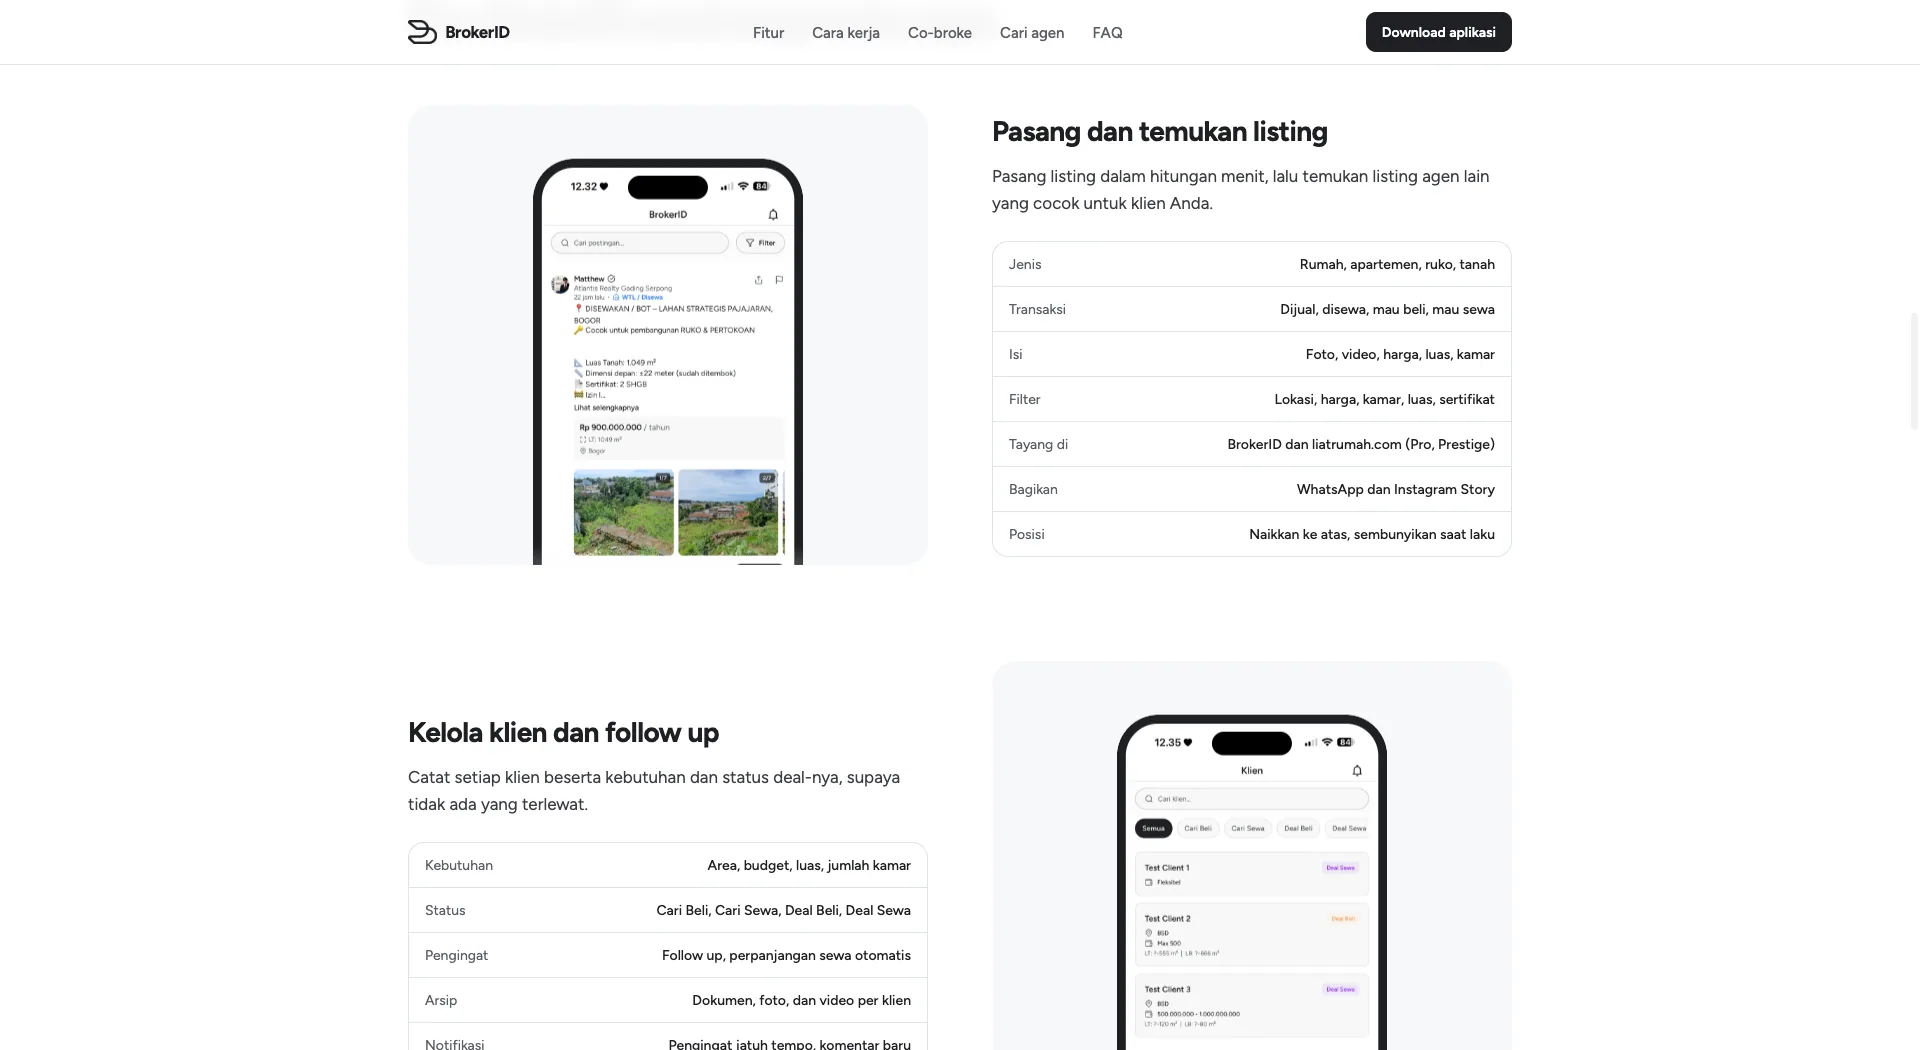
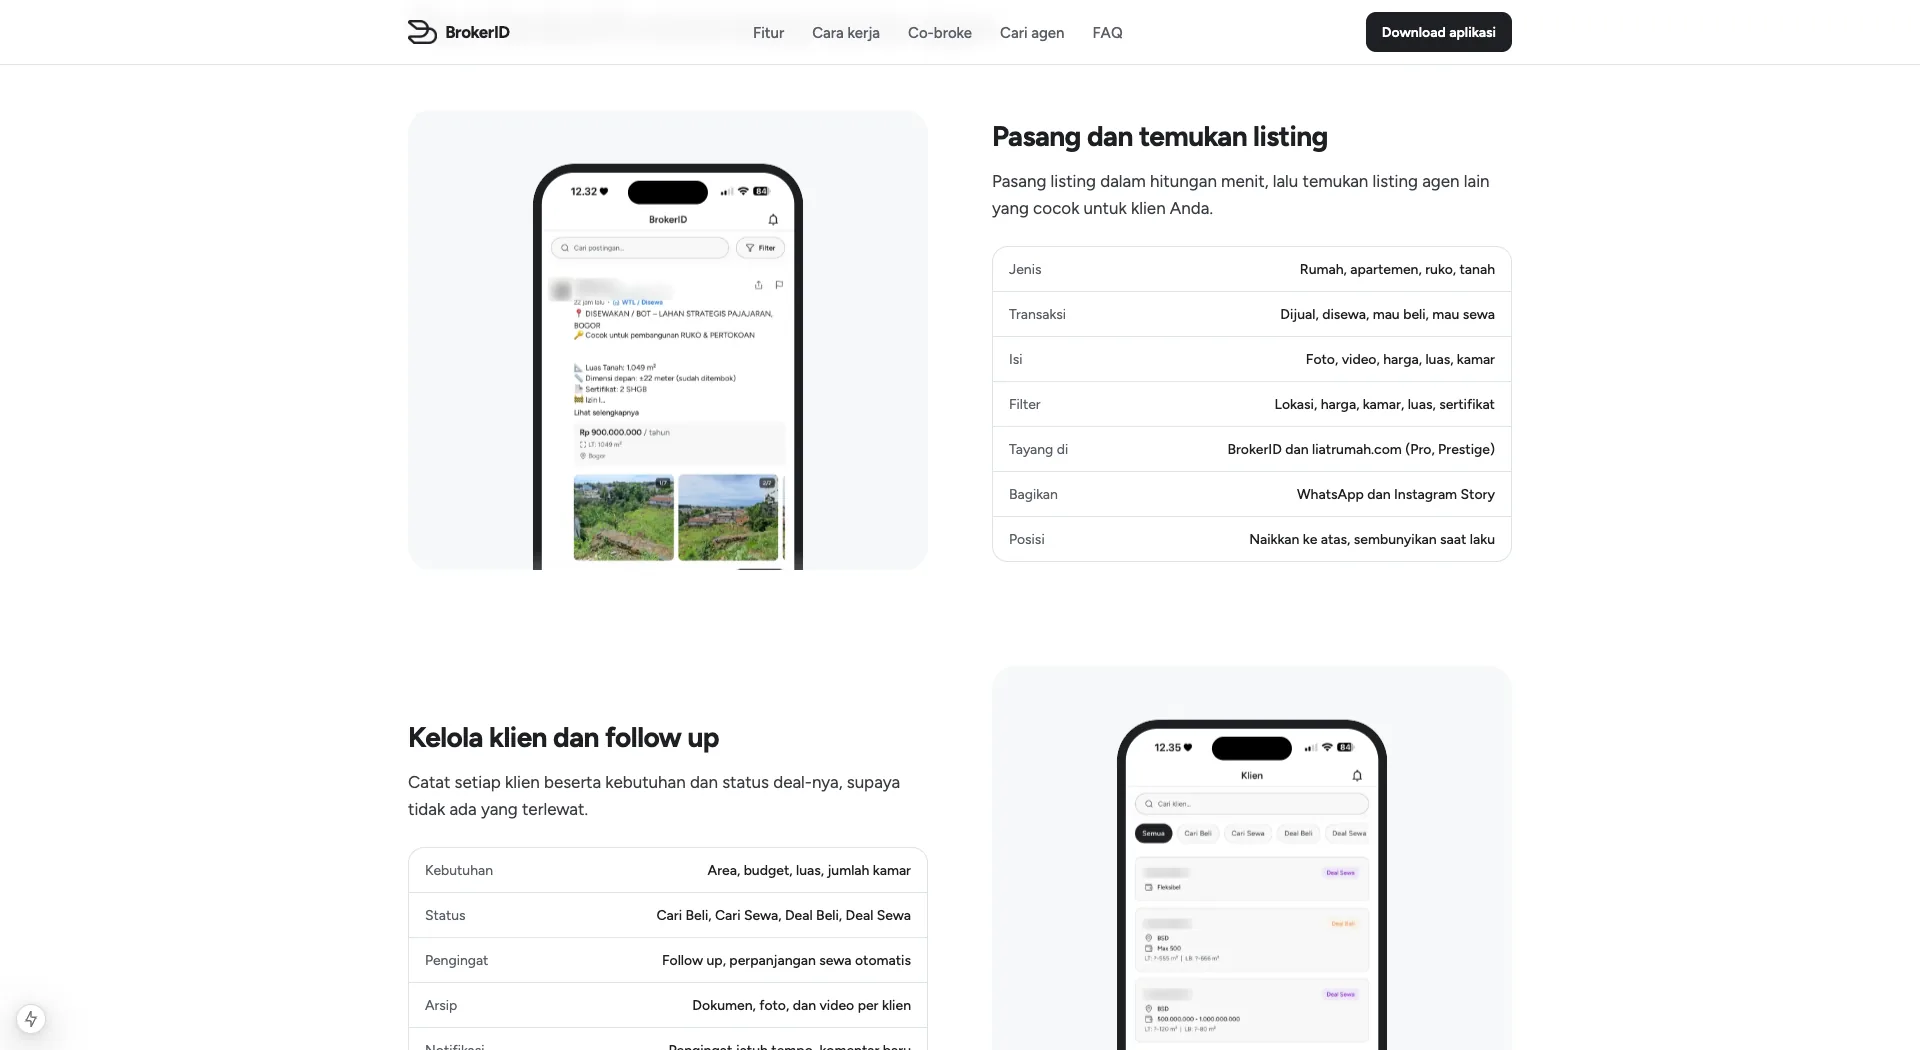
feat: refresh brokerid version 3 web shots and blur names in screenshots

diff --git a/constants/projects.tsx b/constants/projects.tsx
@@ -282,7 +282,9 @@ Here's hoping Version 2 sticks the landing.`,
 
 So I rebuilt the public site as **the website of the app**. It now uses the same light theme, the same Figtree type, and colour tokens copied straight from the app's own theme, so an agent who lands on brokerid.app sees the product they are about to download. Every phone on the page is a real capture of the current app, never a mock-up.
 
-The home page now walks through what an agent actually does in BrokerID: listings, clients and follow ups, bank mortgage products, primary developer projects, and a shareable agent profile, followed by how listings reach buyers on [Liat Rumah](/projects/liat-rumah). There is also a new **co-broke guide** explaining what co-broking is and how agents do it, a rebuilt **agent search** page, and refreshed agent profile and listing pages.
+The home page opens on the problem agents actually live with, listings buried in WhatsApp groups, and sets a group chat beside the same listing inside the app. It then walks through what an agent does in BrokerID: listings, clients and follow ups, bank mortgage products, primary developer projects, and a shareable agent profile, followed by how listings reach buyers on [Liat Rumah](/projects/liat-rumah). Features are laid out like the app's own info cards, not a checklist.
+
+There is also a new **co-broke guide** with a table of contents that follows the reader, and the **agent search**, **agent profile** and **listing** pages were rebuilt on the app's own screens: the directory reads like the app's lists and now includes every registered agent, the profile mirrors the app's profile tab, and a listing looks like a post in the feed, with the same grey price box. Agent and client names are blurred in these screenshots.
 
 Behind it, every indexable page builds its metadata from one helper, so the canonical URL, the social preview, and the page title always describe the same page. Motion is plain CSS entrances and scroll reveals, with no animation library shipped to public pages.`,
         images: [
